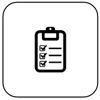
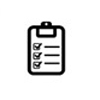
Agregando pantallas de inicio de menu Ppal.

Changed region(s): [[0.27, 0.21, 0.69, 0.78], [0.0, 0.0, 0.99, 0.99]]

diff --git a/resources/views/reportes/reportes_inicio.blade.php b/resources/views/reportes/reportes_inicio.blade.php
@@ -1,0 +1,64 @@
+<!-- 
+     * Nombre del archivo:reportes_inicio.blade.php
+     * Descripción: Vista para menu reportes
+     * Fecha de creación:12/12/2016
+     * Creado por: Yamileth Campos
+-->
+@extends('plantillas.plantilla_sin_columna')
+@section('fecha_sistema')
+<p ALIGN=left>Fecha:<?=date('d/m/Y g:ia');?></p>
+@stop 
+@section('usuario_sesion')
+<p ALIGN=right>Usuario:{{ Auth::user()->nombre_usuario }}</p>
+@stop 
+@section('nombre_pantalla')
+<h4 class="text-center"></h4>
+@stop 
+@section('contenido')
+<div class="panel panel-default">
+    <div class="panel-heading" align="center">REPORTES</div>
+    <div class="panel-body">
+        <!-- la tabla del menu-->
+        <div class="container">
+            <table class="table" align="center">
+                <tr>
+                    <th><a href=""><center><img src="{{asset('images/reporte2.jpg')}}" alt="Reporte 1" class="img-thumbnail"/></center></a></th>
+                    <th><a href=""><center><img src="{{asset('images/reporte2.jpg')}}" alt="Reporte 2" class="img-thumbnail"/></center></a></th>
+                    <th><a href=""><center><img src="{{asset('images/reporte2.jpg')}}" alt="Reporte 3" class="img-thumbnail"/></center></a></th>
+                    <th><a href=""><center><img src="{{asset('images/reporte2.jpg')}}" alt="Reporte 4" class="img-thumbnail"/></center></a></th>
+                    <th><a href=""><center><img src="{{asset('images/reporte2.jpg')}}" alt="Reporte 3" class="img-thumbnail"/></center></a></th>
+                    <th><a href=""><center><img src="{{asset('images/reporte2.jpg')}}" alt="Reporte 3" class="img-thumbnail"/></center></a></th>                    
+                    
+                </tr>             
+                <tr align="center">
+                    <td>Reporte de bienes muebles por destino aprobado</td>
+                    <td>Reporte total de activos fijos que posee la alcald&iacute;a</td>
+                    <td>Reporte de activos fijos por tipo de financiamiento</td>
+                    <td>Reporte de depreciaci&oacute;n total de los activos fijos mes/a&ntilde;o</td>
+                    <td>Reporte total de control administrativo de los activos fijos mes/a&ntilde;o</td>
+                    <td>Reporte total de activos fijos de activos fijos dados alta/baja</td>
+                </tr>
+                <tr>
+                    <th><a href=""><center><img src="{{asset('images/reporte2.jpg')}}" alt="reportes" class="reponsive"/></center></a></th>
+                    <th><a href=""><center><img src="{{asset('images/reporte2.jpg')}}" alt="reportes" class="img-thumbnail"/></center></a></th>
+                    <th><a href=""><center><img src="{{asset('images/reporte2.jpg')}}" alt="reportes" class="img-thumbnail"/></center></a></th>
+                    <th><a href=""><center><img src="{{asset('images/reporte2.jpg')}}" alt="reportes" class="img-thumbnail"/></center></a></th>
+                    <th><a href=""><center><img src="{{asset('images/reporte2.jpg')}}" alt="Reporte 3" class="img-thumbnail"/></center></a></th>
+                    <th><a href=""><center><img src="{{asset('images/reporte2.jpg')}}" alt="Reporte 3" class="img-thumbnail"/></center></a></th>                    
+                    
+                      
+                </tr>  
+                 <tr align="center">
+                    <td>Reporte de activos fijos faltantes, da&ntilde;ados, u obsoletos</td>
+                    <td>Reporte de depreciaci&oacute;n de activos fijos por mes/a&ntilde;o</td>
+                    <td>Reporte de activos fijos por porr responsable de &aacute;rea</td>
+                    <td>Reporte de bienes muebles subastados</td>
+                    <td>Reporte de activos fijos por tipo de adquisici&oacute;n</td>
+                    <td>Reporte total de activos fijos por &aacute;rea/unidad</td>
+                </tr>
+            </table>
+        </div>
+        <!--fin tabla de menu-->
+    </div>
+</div>
+@stop   

diff --git a/resources/views/usuario_app/administracion_inicio.blade.php b/resources/views/usuario_app/administracion_inicio.blade.php
@@ -1,0 +1,37 @@
+<!-- 
+     * Nombre del archivo:principal.blade.php
+     * Descripción:
+     * Fecha de creación:11/12/2016
+     * Creado por: Yamileth Campos
+
+-->
+@extends('plantillas.plantilla_base')
+@section('fecha_sistema')
+<p ALIGN=left>Fecha:<?=date('d/m/Y g:ia');?></p>
+@stop 
+@section('usuario_sesion')
+<p ALIGN=right>Usuario:{{ Auth::user()->nombre_usuario }}</p>
+@stop
+@section('menu_lateral')
+<div class="list-group">
+    <a href="/administracion/buscar_usuario" class="list-group-item">Buscar usuarios</a>
+    <a href="../administracion/nuevo_usuario" class="list-group-item">Nuevo usuario</a>
+    <a href="../administracion/contrasenia/cambiar" class="list-group-item">Cambio de contrase&ntilde;a</a>
+    <a href="../administracion/nuevo_rol" class="list-group-item">Nuevo rol</a>
+    <a href="../administracion/editar_rol" class="list-group-item">Editar rol</a>
+    <a href="../administracion/consultar_bitacora" class="list-group-item">Consultar bitacora</a>
+    <a href="#" class="list-group-item">Cat&aacute;logos</a>
+</div>
+@stop
+@section('contenido')
+<div class="panel panel-default">
+    <div class="panel-heading" align="center">ADMINISTRACION</div>
+    <center>
+        <br>
+        <img src="{{asset('images/admins.jpg')}}"/><br>
+        Usted se encuentra en el m&oacute;dulo Administraci&oacute;n.<br>
+        <div>Para m&aacute;s opciones acceda al men&uacute; de la izquierda.</div>
+      <br><br>
+    </center>
+</div>
+@stop  

diff --git a/resources/views/procesos/procesos_inicio.blade.php b/resources/views/procesos/procesos_inicio.blade.php
@@ -1,0 +1,34 @@
+<!-- 
+     * Nombre del archivo:procesos_inicio.blade.php
+     * Descripción: Vista menu procesos
+     * Fecha de creación:12/12/2016
+     * Creado por: Yamileth Campos
+-->
+@extends('plantillas.plantilla_base')
+@section('fecha_sistema')
+<p ALIGN=left>Fecha:<?=date('d/m/Y g:ia');?></p>
+@stop 
+
+@section('menu_lateral')
+<div class="list-group">
+    <a href="#" class="list-group-item">Calcular depreciaci&oacute;n</a>
+    <a href="#" class="list-group-item">Cierre mensual</a>
+    <a href="#" class="list-group-item">Consultar cierre mensual</a>
+    <a href="#" class="list-group-item">Revertir cierre mensual</a>
+    <a href="#" class="list-group-item">Entrega y recepci&oacute;n por inventario</a>
+    <a href="#" class="list-group-item">Conciliaci&oacute;n de inventarios</a>
+</div>
+@stop
+
+@section('contenido')
+<div class="panel panel-default">
+    <div class="panel-heading" align="center">PROCESOS</div>
+    <center>
+        <br>
+        <img src="{{asset('images/proceso.jpg')}}" alt="procesos"/><br>
+        Usted se encuentra en el m&oacute;dulo Procesos.<br>
+        <div>Para m&aacute;s opciones acceda al men&uacute; de la izquierda.</div>
+      <br><br>
+    </center>
+</div>
+@stop   

diff --git a/resources/views/inventario/inventario_inicio.blade.php b/resources/views/inventario/inventario_inicio.blade.php
@@ -1,0 +1,33 @@
+<!-- 
+     * Nombre del archivo:inventario_inicio.blade.php
+     * Descripción: Vista de menu inventario
+     * Fecha de creación:12/12/2016
+     * Creado por: Yamileth Campos
+-->
+@extends('plantillas.plantilla_base')
+@section('fecha_sistema')
+<p ALIGN=left>Fecha:<?=date('d/m/Y g:ia');?></p>
+@stop 
+
+@section('menu_lateral')
+<div class="list-group">
+    <a href="#" class="list-group-item">Buscar verificaci&oacute;n f&iacute;sica</a>
+    <a href="#" class="list-group-item">Nueva verificaci&oacute;n f&iacute;sica</a>
+    <a href="#" class="list-group-item">Buscar ficha de descargo</a>
+    <a href="#" class="list-group-item">Ejecutar destino</a>
+    <a href="#" class="list-group-item">Revertir destino</a>
+</div>
+@stop
+
+@section('contenido')
+<div class="panel panel-default">
+    <div class="panel-heading" align="center">INVENTARIO</div>
+    <center>
+        <br>
+        <img src="{{asset('images/inventario.jpg')}}" alt="inventario"/><br>
+        Usted se encuentra en el m&oacute;dulo Inventario.<br>
+        <div>Para m&aacute;s opciones acceda al men&uacute; de la izquierda.</div>
+      <br><br>
+    </center>
+</div>
+@stop   

diff --git a/resources/views/solicitudes/solicitudes_inicio.blade.php b/resources/views/solicitudes/solicitudes_inicio.blade.php
@@ -1,0 +1,32 @@
+<!-- 
+     * Nombre del archivo:solicitud_inicio.blade.php
+     * Descripción: inicio para modulo solicitud
+     * Fecha de creación:11/12/2016
+     * Creado por: Yamileth Campos
+-->
+@extends('plantillas.plantilla_base')
+@section('fecha_sistema')
+<p ALIGN=left>Fecha:<?=date('d/m/Y g:ia');?></p>
+@stop 
+
+@section('menu_lateral')
+<div class="list-group">
+    <a href="#" class="list-group-item">Buscar solicitud de movimiento</a>
+    <a href="#" class="list-group-item">Nueva solicitud de movimiento</a>
+    <a href="#" class="list-group-item">Buscar solicitud de descargo</a>
+    <a href="#" class="list-group-item">Nueva solicitud de descargo</a>
+</div>
+@stop
+
+@section('contenido')
+<div class="panel panel-default">
+    <div class="panel-heading" align="center">SOLICITUDES</div>
+    <center>
+        <br>
+        <img src="{{asset('images/solicitudes.jpg')}}" alt="solicitudes"/><br>
+        Usted se encuentra en el m&oacute;dulo Solicitudes.<br>
+        <div>Para m&aacute;s opciones acceda al men&uacute; de la izquierda.</div>
+      <br><br>
+    </center>
+</div>
+@stop   

diff --git a/resources/views/ficha_modulo/ficha_inicio.blade.php b/resources/views/ficha_modulo/ficha_inicio.blade.php
@@ -1,0 +1,32 @@
+<!-- 
+     * Nombre del archivo:ficha_inicio.blade.php
+     * Descripción: Vista de menu ficha
+     * Fecha de creación:12/12/16
+     * Creado por: Yamileth Campos
+-->
+@extends('plantillas.plantilla_base')
+@section('fecha_sistema')
+<p ALIGN=left>Fecha:<?=date('d/m/Y g:ia');?></p>
+@stop 
+
+@section('menu_lateral')
+<div class="list-group">
+    <a href="#" class="list-group-item">Buscar ficha</a>
+    <a href="#" class="list-group-item">Nueva ficha inmueble</a>
+    <a href="#" class="list-group-item">Nueva ficha mueble</a>
+    <a href="#" class="list-group-item">Nueva ficha veh&iacute;culo</a>
+</div>
+@stop
+
+@section('contenido')
+<div class="panel panel-default">
+    <div class="panel-heading" align="center">FICHA</div>
+    <center>
+        <br>
+        <img src="{{asset('images/ficha.jpg')}}" alt="Ficha"/><br>
+        Usted se encuentra en el m&oacute;dulo ficha.<br>
+        <div>Para m&aacute;s opciones acceda al men&uacute; de la izquierda.</div>
+      <br><br>
+    </center>
+</div>
+@stop   
